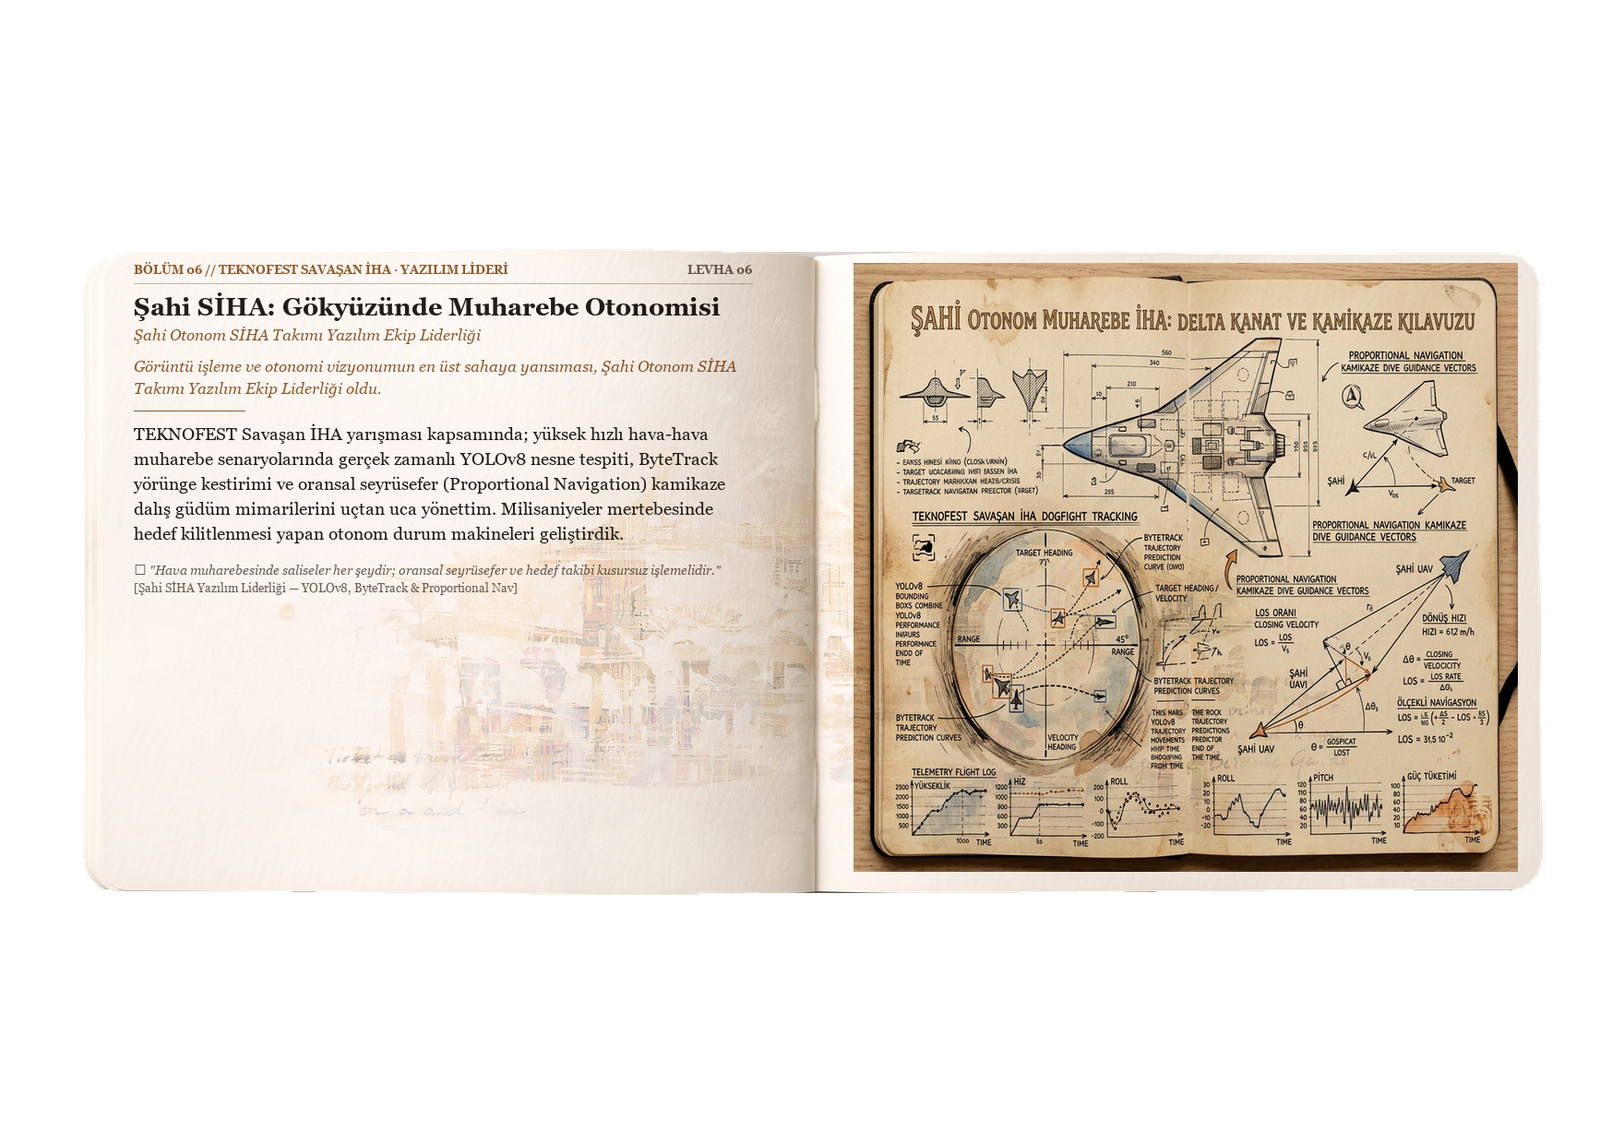
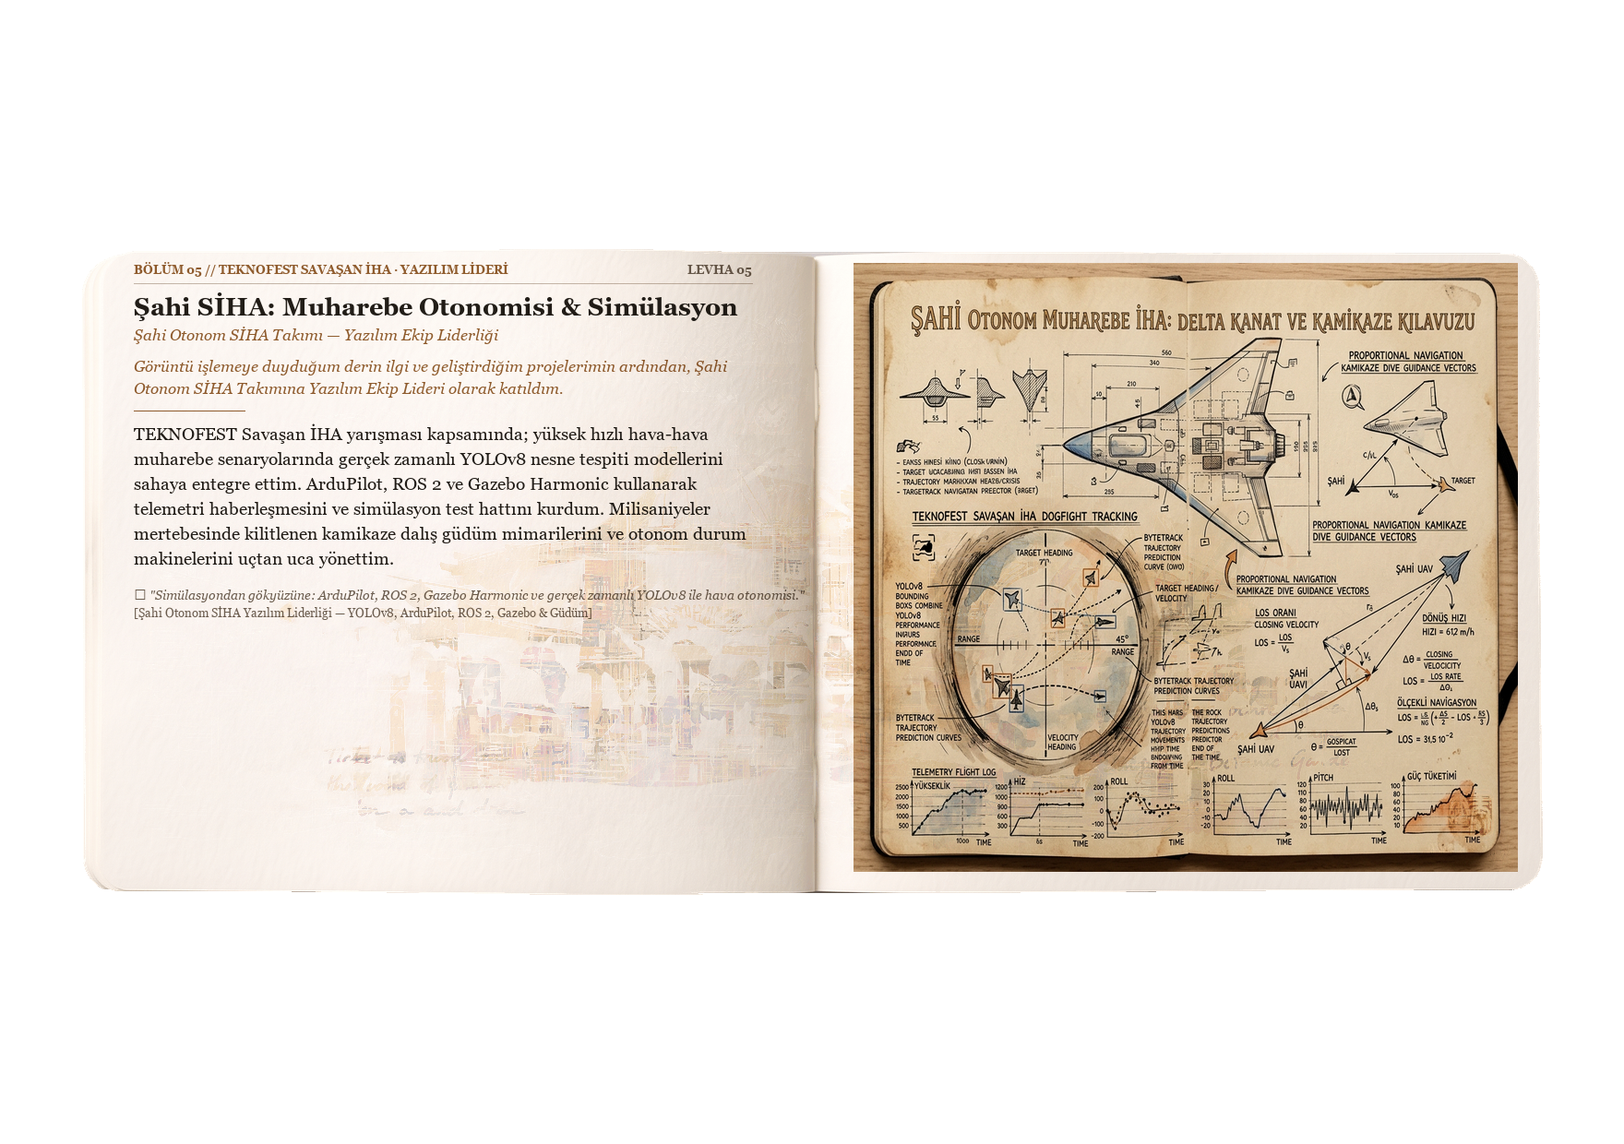
feat(sketchbook): merge pixel simulation with Sahi UAV page, renumber book to 8 milestones

Changed region(s): [[0.0625, 0.3984, 0.4375, 0.5516], [0.1562, 0.2452, 0.4688, 0.3677], [0.0938, 0.3371, 0.1562, 0.3677]]

diff --git a/public/landing-pages/meng-to-sketchbook.html b/public/landing-pages/meng-to-sketchbook.html
@@ -591,15 +591,15 @@ html[data-lang="en"] .lang-tr { display: none !important; }
   <!-- TOP HEADER STREAMLINED (Subtle tactical pill, no overlap) -->
   <div class="sb-top-tag" id="sbTopTag">
     <span class="motto-tag">
-      <span class="lang-tr">02 · HİKAYEM // 9 DÖNÜM NOKTASI ESKİZ DEFTERİ</span>
-      <span class="lang-en">02 · MY STORY // 9 MILESTONES SKETCHBOOK</span>
+      <span class="lang-tr">02 · HİKAYEM // 8 DÖNÜM NOKTASI ESKİZ DEFTERİ</span>
+      <span class="lang-en">02 · MY STORY // 8 MILESTONES SKETCHBOOK</span>
     </span>
   </div>
 
   <section id="sketchbook" class="hero">
     <p class="hero-kicker" id="heroKicker">
-      <span class="lang-tr">02 · HİKAYEM — 9 DÖNÜM NOKTASI ESKİZ DEFTERİ<br><span style="opacity:0.85;font-size:0.88em;letter-spacing:0.18em;color:var(--earth);">ŞAHİ OTONOM SİHA YAZILIM LİDERİ · BİLGİSAYARLI GÖRÜ &amp; ROBOTİK AR-GE</span></span>
-      <span class="lang-en">02 · MY STORY — 9 MILESTONES SKETCHBOOK<br><span style="opacity:0.85;font-size:0.88em;letter-spacing:0.18em;color:var(--earth);">AUTONOMOUS UAV SOFTWARE LEAD · COMPUTER VISION &amp; ROBOTICS R&amp;D</span></span>
+      <span class="lang-tr">02 · HİKAYEM — 8 DÖNÜM NOKTASI ESKİZ DEFTERİ<br><span style="opacity:0.85;font-size:0.88em;letter-spacing:0.18em;color:var(--earth);">ŞAHİ OTONOM SİHA YAZILIM LİDERİ · BİLGİSAYARLI GÖRÜ &amp; ROBOTİK AR-GE</span></span>
+      <span class="lang-en">02 · MY STORY — 8 MILESTONES SKETCHBOOK<br><span style="opacity:0.85;font-size:0.88em;letter-spacing:0.18em;color:var(--earth);">AUTONOMOUS UAV SOFTWARE LEAD · COMPUTER VISION &amp; ROBOTICS R&amp;D</span></span>
     </p>
 
     <div class="sb-wrap" id="sbWrap">
@@ -671,27 +671,25 @@ const Q=new URLSearchParams(location.search);
 const DIR='meng-to-sketchbook/';
 
 const PAGES_TR=[
-  {file:'marina-bay-sands.png',   title:'3 Yaş: İlk Bilgisayar & Oyunlar',     place:'Dijital Dünyayla İlk Karşılaşma'},
-  {file:'gardens-by-the-bay.png', title:'Kırımlı Fazilet Olcay A.L.',          place:'Lise Yılları · Makinelerin Derin Yetenekleri'},
-  {file:'merlion.png',            title:'Tekirdağ Namık Kemal Üniversitesi',   place:'Bilgisayar Mühendisliği'},
-  {file:'buddha-tooth.png',       title:'Martur Fompak International',         place:'Şirket İçi Kurumsal Yapay Zeka Sistemleri'},
-  {file:'joo-chiat.png',          title:'Görüntü İşleme & Gazebo Harmonic',    place:'Piksel Mimarileri, OpenCV & 3D Simülasyon'},
-  {file:'lau-pa-sat.png',         title:'Şahi Otonom SİHA Takımı',            place:'TEKNOFEST Savaşan İHA · Yazılım Ekip Lideri'},
-  {file:'marina-bay-skyline.png', title:'Çözüm Makina: ISEE Vision',           place:'Endüstriyel Görüntü İşleme & Kalite Kontrol'},
-  {file:'singapore-river.png',    title:'Çözüm Makina: ISEE Robotics',         place:'Endüstriyel Robotik, ROS, MQTT & Gazebo'},
+  {file:'marina-bay-sands.png',   title:'3 Yaş: İlk Bilgisayar & Oyunlar',         place:'Dijital Dünyayla İlk Karşılaşma'},
+  {file:'gardens-by-the-bay.png', title:'Kırımlı Fazilet Olcay A.L.',              place:'Lise Yılları · Makinelerin Derin Yetenekleri'},
+  {file:'merlion.png',            title:'Tekirdağ Namık Kemal Üniversitesi',       place:'Bilgisayar Mühendisliği'},
+  {file:'buddha-tooth.png',       title:'Martur Fompak International',             place:'Şirket İçi Kurumsal Yapay Zeka Sistemleri'},
+  {file:'lau-pa-sat.png',         title:'Şahi SİHA: Muharebe Otonomisi',           place:'TEKNOFEST Savaşan İHA · Yazılım Ekip Lideri'},
+  {file:'marina-bay-skyline.png', title:'Çözüm Makina: ISEE Vision',               place:'Endüstriyel Görüntü İşleme & Kalite Kontrol'},
+  {file:'singapore-river.png',    title:'Çözüm Makina: ISEE Robotics',             place:'Endüstriyel Robotik, ROS, MQTT & Gazebo'},
   {file:'botanic-gardens.png',    title:'Teorik bilgilerimi pratiğe çeviriyorum.', place:'Gelecek Vizyonu'}
 ];
 
 const PAGES_EN=[
-  {file:'marina-bay-sands.png',   title:'Age 3: First PC & Games',             place:'First Digital Encounter'},
-  {file:'gardens-by-the-bay.png', title:'Kırımlı Fazilet Olcay High School',   place:'Awakening to Deep Machine Capabilities'},
-  {file:'merlion.png',            title:'Tekirdağ Namık Kemal University',     place:'Computer Engineering'},
-  {file:'buddha-tooth.png',       title:'Martur Fompak International',         place:'Internal Enterprise AI & Multi-Agent Systems'},
-  {file:'joo-chiat.png',          title:'Computer Vision & Gazebo Harmonic',   place:'Pixel Tensors, OpenCV & 3D Simulation'},
-  {file:'lau-pa-sat.png',         title:'Şahi Autonomous UAV Team',            place:'TEKNOFEST Fighting UAV · Software Team Lead'},
-  {file:'marina-bay-skyline.png', title:'Çözüm Makina: ISEE Vision',           place:'Industrial Computer Vision & Zero-Defect'},
-  {file:'singapore-river.png',    title:'Çözüm Makina: ISEE Robotics',         place:'Industrial Robotics, ROS, MQTT & Gazebo'},
-  {file:'botanic-gardens.png',    title:'Transforming theory into practice.',  place:'Future Vision'}
+  {file:'marina-bay-sands.png',   title:'Age 3: First PC & Games',                 place:'First Digital Encounter'},
+  {file:'gardens-by-the-bay.png', title:'Kırımlı Fazilet Olcay High School',       place:'Awakening to Deep Machine Capabilities'},
+  {file:'merlion.png',            title:'Tekirdağ Namık Kemal University',         place:'Computer Engineering'},
+  {file:'buddha-tooth.png',       title:'Martur Fompak International',             place:'Internal Enterprise AI & Multi-Agent Systems'},
+  {file:'lau-pa-sat.png',         title:'Şahi UAV: Combat Autonomy',               place:'TEKNOFEST Fighting UAV · Software Team Lead'},
+  {file:'marina-bay-skyline.png', title:'Çözüm Makina: ISEE Vision',               place:'Industrial Computer Vision & Zero-Defect'},
+  {file:'singapore-river.png',    title:'Çözüm Makina: ISEE Robotics',             place:'Industrial Robotics, ROS, MQTT & Gazebo'},
+  {file:'botanic-gardens.png',    title:'Transforming theory into practice.',      place:'Future Vision'}
 ];
 
 let currentSbLang = localStorage.getItem('site_lang') || 'tr';

diff --git a/index.html b/index.html
@@ -188,52 +188,32 @@
             </div>
           </div>
 
-          <!-- Plate 5: Gazebo Harmonic 3D (Far Top-Center) -->
-          <div class="story-plate-5 story-fly-plate">
-            <div class="plate-sprocket">
-              <span>ROS 2 // 3D DIGITAL TWIN</span>
-              <div class="plate-sprocket-holes"><div class="p-hole"></div><div class="p-hole"></div><div class="p-hole"></div></div>
-              <span>#05</span>
-            </div>
-            <div class="plate-photo-wrap">
-              <img src="/landing-pages/meng-to-sketchbook/joo-chiat.png" alt="Gazebo Harmonic" class="plate-photo-img" loading="eager" />
-              <div class="plate-photo-overlay">
-                <span class="plate-title-tag">GAZEBO HARMONIC &amp; CV</span>
-              </div>
-            </div>
-            <div class="plate-sprocket bot">
-              <span>SIMULATION MATRIX</span>
-              <div class="plate-sprocket-holes"><div class="p-hole"></div><div class="p-hole"></div><div class="p-hole"></div></div>
-              <span>DEPTH: -1200M</span>
-            </div>
-          </div>
-
-          <!-- Plate 6: Şahi Otonom SİHA Takımı (Mid-Left Highlight) -->
+          <!-- Plate 5: Şahi Otonom SİHA Takımı & Simülasyon (Mid-Left Highlight) -->
           <div class="story-plate-6 story-fly-plate">
             <div class="plate-sprocket">
               <span>TEKNOFEST // SAVAŞAN İHA</span>
               <div class="plate-sprocket-holes"><div class="p-hole"></div><div class="p-hole"></div><div class="p-hole"></div></div>
-              <span>#06 ★</span>
+              <span>#05 ★</span>
             </div>
             <div class="plate-photo-wrap">
               <img src="/landing-pages/meng-to-sketchbook/lau-pa-sat.png" alt="Şahi SİHA" class="plate-photo-img" loading="eager" />
               <div class="plate-photo-overlay">
-                <span class="plate-title-tag">ŞAHİ OTONOM SİHA LİDERİ</span>
+                <span class="plate-title-tag">ŞAHİ OTONOM SİHA &amp; SİMÜLASYON</span>
               </div>
             </div>
             <div class="plate-sprocket bot">
-              <span>120 FPS CV + MAVLINK</span>
+              <span>YOLOV8 + ROS 2 + GAZEBO</span>
               <div class="plate-sprocket-holes"><div class="p-hole"></div><div class="p-hole"></div><div class="p-hole"></div></div>
               <span>DEPTH: -680M</span>
             </div>
           </div>
 
-          <!-- Plate 7: Çözüm Makina ISEE Vision (Mid-Right) -->
+          <!-- Plate 6: Çözüm Makina ISEE Vision (Mid-Right) -->
           <div class="story-plate-7 story-fly-plate">
             <div class="plate-sprocket">
               <span>ENDÜSTRİYEL GÖRÜ // CUDA</span>
               <div class="plate-sprocket-holes"><div class="p-hole"></div><div class="p-hole"></div><div class="p-hole"></div></div>
-              <span>#07</span>
+              <span>#06</span>
             </div>
             <div class="plate-photo-wrap">
               <img src="/landing-pages/meng-to-sketchbook/marina-bay-skyline.png" alt="ISEE Vision" class="plate-photo-img" loading="eager" />
@@ -248,12 +228,12 @@
             </div>
           </div>
 
-          <!-- Plate 8: Çözüm Makina ISEE Robotics (Far Bottom-Center) -->
+          <!-- Plate 7: Çözüm Makina ISEE Robotics (Far Bottom-Center) -->
           <div class="story-plate-8 story-fly-plate">
             <div class="plate-sprocket">
               <span>ROBOTİK // ROS &amp; MQTT</span>
               <div class="plate-sprocket-holes"><div class="p-hole"></div><div class="p-hole"></div><div class="p-hole"></div></div>
-              <span>#08</span>
+              <span>#07</span>
             </div>
             <div class="plate-photo-wrap">
               <img src="/landing-pages/meng-to-sketchbook/singapore-river.png" alt="ISEE Robotics" class="plate-photo-img" loading="eager" />
@@ -268,12 +248,12 @@
             </div>
           </div>
 
-          <!-- Plate 9: İnsan Formu — Makine Mantığı (Deep Focal Core) -->
+          <!-- Plate 8: İnsan Formu — Makine Mantığı (Deep Focal Core) -->
           <div class="story-plate-9 story-fly-plate">
             <div class="plate-sprocket">
               <span>MANIFESTO // SÜRÜ ZEKA</span>
               <div class="plate-sprocket-holes"><div class="p-hole"></div><div class="p-hole"></div><div class="p-hole"></div></div>
-              <span>#09</span>
+              <span>#08</span>
             </div>
             <div class="plate-photo-wrap">
               <img src="/landing-pages/meng-to-sketchbook/botanic-gardens.png" alt="Makine Mantığı" class="plate-photo-img" loading="eager" />

diff --git a/scratch/build_all_spreads_v2.py b/scratch/build_all_spreads_v2.py
@@ -75,34 +75,22 @@ spreads_data = [
         'signature': '[Martur Fompak International — Kurumsal Yapay Zeka Stajı & Projeleri]'
     },
     {
-        'file': 'joo-chiat.png',
-        'illus': 'plate05_gazebo_cv_1789637005941.jpg',
-        'kicker': 'BÖLÜM 05 // BİLGİSAYARLI GÖRÜ & GAZEBO HARMONIC',
-        'plate_num': 'LEVHA 05',
-        'title': 'Pikseller ve Simülasyon: Gazebo Harmonic',
-        'subtitle': 'Piksel Mimarileri, OpenCV & 3D Simülasyon',
-        'lead': 'Yazılımı ekrandan çıkarıp fiziksel dünyayı algılayan bir göze dönüştürmek için Görüntü İşleme ve Gazebo Harmonic simülasyonlarına odaklandım.',
-        'body': 'Kamera sensörlerinden gelen ham piksel matrislerini derin öğrenme modelleriyle işlerken; algoritmaları gerçek dünyaya indirmeden önce Gazebo Harmonic üzerinde 3D fiziksel simülasyon ortamları kurdum. Işın izleme, sanal kamera optiği, çarpışma testleri ve tensör matrislerini simülasyonda doğrulayarak kusursuz bir test hattı inşa ettim.',
-        'note': '✦ "Gerçek dünya fiziğini sanal ortamda Gazebo Harmonic ile simüle etmek; sahada sıfır hata demektir."',
-        'signature': '[Gazebo Harmonic 3D World Simulation & OpenCV Vision Tensors]'
-    },
-    {
         'file': 'lau-pa-sat.png',
         'illus': 'plate05_sahi_uav_1789635730454.jpg',
-        'kicker': 'BÖLÜM 06 // TEKNOFEST SAVAŞAN İHA · YAZILIM LİDERİ',
-        'plate_num': 'LEVHA 06',
-        'title': 'Şahi SİHA: Gökyüzünde Muharebe Otonomisi',
-        'subtitle': 'Şahi Otonom SİHA Takımı Yazılım Ekip Liderliği',
-        'lead': 'Görüntü işleme ve otonomi vizyonumun en üst sahaya yansıması, Şahi Otonom SİHA Takımı Yazılım Ekip Liderliği oldu.',
-        'body': 'TEKNOFEST Savaşan İHA yarışması kapsamında; yüksek hızlı hava-hava muharebe senaryolarında gerçek zamanlı YOLOv8 nesne tespiti, ByteTrack yörünge kestirimi ve oransal seyrüsefer (Proportional Navigation) kamikaze dalış güdüm mimarilerini uçtan uca yönettim. Milisaniyeler mertebesinde hedef kilitlenmesi yapan otonom durum makineleri geliştirdik.',
-        'note': '✦ "Hava muharebesinde saliseler her şeydir; oransal seyrüsefer ve hedef takibi kusursuz işlemelidir."',
-        'signature': '[Şahi SİHA Yazılım Liderliği — YOLOv8, ByteTrack & Proportional Nav]'
+        'kicker': 'BÖLÜM 05 // TEKNOFEST SAVAŞAN İHA · YAZILIM LİDERİ',
+        'plate_num': 'LEVHA 05',
+        'title': 'Şahi SİHA: Muharebe Otonomisi & Simülasyon',
+        'subtitle': 'Şahi Otonom SİHA Takımı — Yazılım Ekip Liderliği',
+        'lead': 'Görüntü işlemeye duyduğum derin ilgi ve geliştirdiğim projelerimin ardından, Şahi Otonom SİHA Takımına Yazılım Ekip Lideri olarak katıldım.',
+        'body': 'TEKNOFEST Savaşan İHA yarışması kapsamında; yüksek hızlı hava-hava muharebe senaryolarında gerçek zamanlı YOLOv8 nesne tespiti modellerini sahaya entegre ettim. ArduPilot, ROS 2 ve Gazebo Harmonic kullanarak telemetri haberleşmesini ve simülasyon test hattını kurdum. Milisaniyeler mertebesinde kilitlenen kamikaze dalış güdüm mimarilerini ve otonom durum makinelerini uçtan uca yönettim.',
+        'note': '✦ "Simülasyondan gökyüzüne: ArduPilot, ROS 2, Gazebo Harmonic ve gerçek zamanlı YOLOv8 ile hava otonomisi."',
+        'signature': '[Şahi Otonom SİHA Yazılım Liderliği — YOLOv8, ArduPilot, ROS 2, Gazebo & Güdüm]'
     },
     {
         'file': 'marina-bay-skyline.png',
         'illus': 'plate06_cozum_makina_1789635755334.jpg',
-        'kicker': 'BÖLÜM 07 // ÇÖZÜM MAKİNA AR-GE · ISEE VISION',
-        'plate_num': 'LEVHA 07',
+        'kicker': 'BÖLÜM 06 // ÇÖZÜM MAKİNA AR-GE · ISEE VISION',
+        'plate_num': 'LEVHA 06',
         'title': 'Çözüm Makina: ISEE Vision Kalite Kontrol',
         'subtitle': 'Endüstriyel Görüntü İşleme & Sıfır Hata Anomali',
         'lead': 'Çözüm Makina Ar-Ge bünyesinde ISEE Vision ile endüstriyel üretim hatlarında görüntü işlemeyle sıfır hata kalite kontrol modelleri geliştirdim.',
@@ -113,8 +101,8 @@ spreads_data = [
     {
         'file': 'singapore-river.png',
         'illus': 'plate04_robotics_1789635708664.jpg',
-        'kicker': 'BÖLÜM 08 // ÇÖZÜM MAKİNA · ISEE ROBOTICS',
-        'plate_num': 'LEVHA 08',
+        'kicker': 'BÖLÜM 07 // ÇÖZÜM MAKİNA · ISEE ROBOTICS',
+        'plate_num': 'LEVHA 07',
         'title': 'Çözüm Makina: ISEE Robotics',
         'subtitle': 'Endüstriyel Robotik, ROS, MQTT & Gazebo',
         'lead': 'Çözüm Makina bünyesinde ISEE Robotics çatısı altında endüstriyel robotlarla çalıştım; ROS ve MQTT ile otonom operasyonlar kurdum.',
@@ -125,8 +113,8 @@ spreads_data = [
     {
         'file': 'botanic-gardens.png',
         'illus': 'plate09_manifesto_1789635835947.jpg',
-        'kicker': 'BÖLÜM 09 // GELECEK VİZYONU & MANİFESTO',
-        'plate_num': 'LEVHA 09',
+        'kicker': 'BÖLÜM 08 // GELECEK VİZYONU & MANİFESTO',
+        'plate_num': 'LEVHA 08',
         'title': 'İnsan Formu — Makine Mantığı',
         'subtitle': 'Otonom Sürü Zekası & Gelecek Vizyonu',
         'lead': 'İnsan sezgisi, makine mantığıyla birleştiğinde; donanımın soğuk metalleri otonom bir zekaya dönüşür.',
@@ -158,8 +146,8 @@ def wrap_text(text, font, max_width, draw):
 
 for s in spreads_data:
     dest_file = s['file']
-    if dest_file in ['marina-bay-sands.png', 'gardens-by-the-bay.png', 'merlion.png', 'buddha-tooth.png']:
-        # Managed with custom high-fidelity pipelines in scratch/build_spread_01_retro.py, 02_modern.py, 03_university.py & 04_martur.py
+    if dest_file in ['marina-bay-sands.png', 'gardens-by-the-bay.png', 'merlion.png', 'buddha-tooth.png', 'lau-pa-sat.png']:
+        # Managed with custom high-fidelity pipelines in scratch/build_spread_01_retro.py, 02_modern.py, 03_university.py, 04_martur.py & 05_sahi.py
         continue
     illus_file = s['illus']
     dest_path = os.path.join(out_dir, dest_file)

diff --git a/scratch/build_spread_05_sahi.py b/scratch/build_spread_05_sahi.py
@@ -1,0 +1,114 @@
+import os
+from PIL import Image, ImageDraw, ImageFont
+import numpy as np
+
+SPREAD_BASE = r'scratch/clean_paper_spread.png'
+OUT_FINAL = r'public/landing-pages/meng-to-sketchbook/lau-pa-sat.png'
+ILLUS_PATH = r'C:\Users\dloozi\.gemini\antigravity-cli\brain\af0d76d1-4e98-4245-9246-8ea4316a204d\plate05_sahi_uav_1789635730454.jpg'
+
+spread = Image.open(SPREAD_BASE).convert('RGBA')
+spread_arr = np.array(spread)
+alpha_orig = spread_arr[:, :, 3]
+
+# Crisp, elegant typography
+font_kicker = ImageFont.truetype(r'C:\Windows\Fonts\georgiab.ttf', 13)
+font_title = ImageFont.truetype(r'C:\Windows\Fonts\georgiab.ttf', 27)
+font_sub = ImageFont.truetype(r'C:\Windows\Fonts\georgiai.ttf', 17)
+font_italic = ImageFont.truetype(r'C:\Windows\Fonts\georgiai.ttf', 17)
+font_body = ImageFont.truetype(r'C:\Windows\Fonts\georgia.ttf', 19)
+font_note = ImageFont.truetype(r'C:\Windows\Fonts\georgiai.ttf', 14)
+font_signature = ImageFont.truetype(r'C:\Windows\Fonts\georgia.ttf', 13)
+
+INK_DEEP = (34, 30, 25, 255)
+INK_FAINT = (110, 98, 85, 255)
+EARTH = (145, 95, 48, 255)
+RULE_COLOR = (175, 160, 145, 180)
+
+canvas = Image.new('RGBA', (1760, 1240), (0, 0, 0, 0))
+draw = ImageDraw.Draw(canvas)
+
+LX = 145
+LY = 285
+MAX_W = 670
+
+# 1. Kicker & Plate Number (Now LEVHA 05)
+draw.text((LX, LY), 'BÖLÜM 05 // TEKNOFEST SAVAŞAN İHA · YAZILIM LİDERİ', font=font_kicker, fill=EARTH)
+draw.text((LX + MAX_W - 70, LY), 'LEVHA 05', font=font_kicker, fill=INK_FAINT)
+draw.line([(LX, LY + 22), (LX + MAX_W, LY + 22)], fill=RULE_COLOR, width=1)
+
+# 2. Title & Subtitle
+draw.text((LX, LY + 32), 'Şahi SİHA: Muharebe Otonomisi & Simülasyon', font=font_title, fill=INK_DEEP)
+draw.text((LX, LY + 68), 'Şahi Otonom SİHA Takımı — Yazılım Ekip Liderliği', font=font_sub, fill=EARTH)
+
+def wrap_text(text, font, max_width, d):
+    words = text.split(' ')
+    lines = []
+    cur = words[0]
+    for w in words[1:]:
+        test = cur + ' ' + w
+        bbox = d.textbbox((0, 0), test, font=font)
+        if bbox[2] - bbox[0] <= max_width:
+            cur = test
+        else:
+            lines.append(cur)
+            cur = w
+    lines.append(cur)
+    return lines
+
+# Lead: Prior computer vision interest and joining as Software Team Lead
+lead_text = 'Görüntü işlemeye duyduğum derin ilgi ve geliştirdiğim projelerimin ardından, Şahi Otonom SİHA Takımına Yazılım Ekip Lideri olarak katıldım.'
+curr_y = LY + 102
+for line in wrap_text(lead_text, font_italic, MAX_W, draw):
+    draw.text((LX, curr_y), line, font=font_italic, fill=EARTH)
+    curr_y += 24
+
+curr_y += 10
+draw.line([(LX, curr_y), (LX + 120, curr_y)], fill=EARTH, width=1)
+curr_y += 14
+
+# Body: YOLOv8, ArduPilot, ROS 2, Gazebo Harmonic, Kamikaze dive guidance
+body_text = (
+    'TEKNOFEST Savaşan İHA yarışması kapsamında; yüksek hızlı hava-hava muharebe senaryolarında '
+    'gerçek zamanlı YOLOv8 nesne tespiti modellerini sahaya entegre ettim. ArduPilot, ROS 2 ve '
+    'Gazebo Harmonic kullanarak telemetri haberleşmesini ve simülasyon test hattını kurdum. '
+    'Milisaniyeler mertebesinde kilitlenen kamikaze dalış güdüm mimarilerini ve otonom durum '
+    'makinelerini uçtan uca yönettim.'
+)
+
+for line in wrap_text(body_text, font_body, MAX_W, draw):
+    draw.text((LX, curr_y), line, font=font_body, fill=INK_DEEP)
+    curr_y += 27
+
+curr_y += 16
+note_text = '✦ "Simülasyondan gökyüzüne: ArduPilot, ROS 2, Gazebo Harmonic ve gerçek zamanlı YOLOv8 ile hava otonomisi."'
+draw.text((LX, curr_y), note_text, font=font_note, fill=INK_FAINT)
+curr_y += 20
+
+signature_text = '[Şahi Otonom SİHA Yazılım Liderliği — YOLOv8, ArduPilot, ROS 2, Gazebo & Güdüm]'
+draw.text((LX, curr_y), signature_text, font=font_signature, fill=INK_FAINT)
+
+# 3. Right Page: Plate 05 Şahi SİHA Delta Wing, Dogfight & Guidance vectors
+if os.path.exists(ILLUS_PATH):
+    im_illus = Image.open(ILLUS_PATH).convert('RGBA')
+    im_resized = im_illus.resize((720, 660), Image.Resampling.LANCZOS)
+    canvas.paste(im_resized, (925, 285))
+
+# 4. Multiply Blend onto spread paper
+canvas_arr = np.array(canvas)
+out_arr = np.zeros_like(spread_arr)
+
+base_rgb = spread_arr[:, :, :3].astype(float)
+canvas_rgb = canvas_arr[:, :, :3].astype(float)
+canvas_alpha = canvas_arr[:, :, 3].astype(float) / 255.0
+
+for c in range(3):
+    out_arr[:, :, c] = np.clip(
+        base_rgb[:, :, c] * (1.0 - canvas_alpha) + (base_rgb[:, :, c] * canvas_rgb[:, :, c] / 255.0) * canvas_alpha,
+        0, 255
+    ).astype(np.uint8)
+
+out_arr[:, :, 3] = alpha_orig
+
+res = Image.fromarray(out_arr, 'RGBA')
+res.save(OUT_FINAL)
+print(f'SUCCESS! Spread 05 (lau-pa-sat.png) saved to {OUT_FINAL} ({os.path.getsize(OUT_FINAL)} bytes)')
